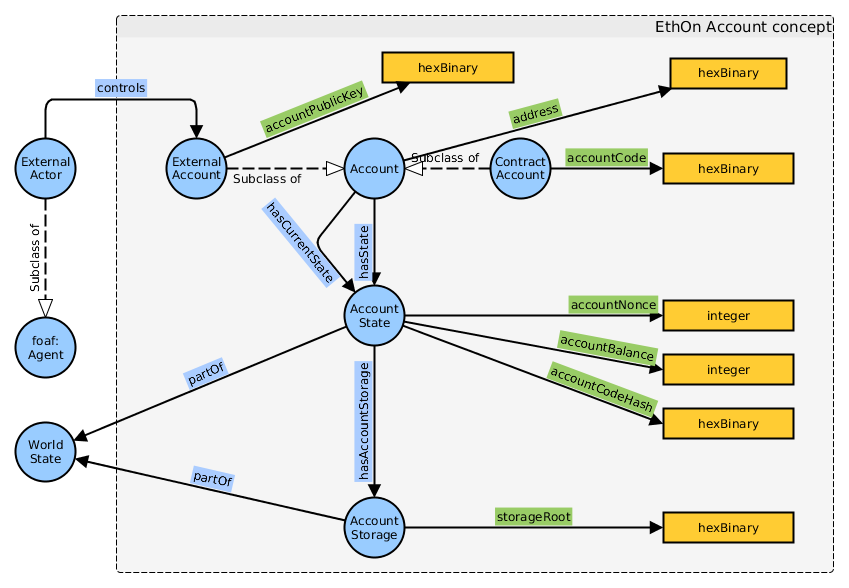
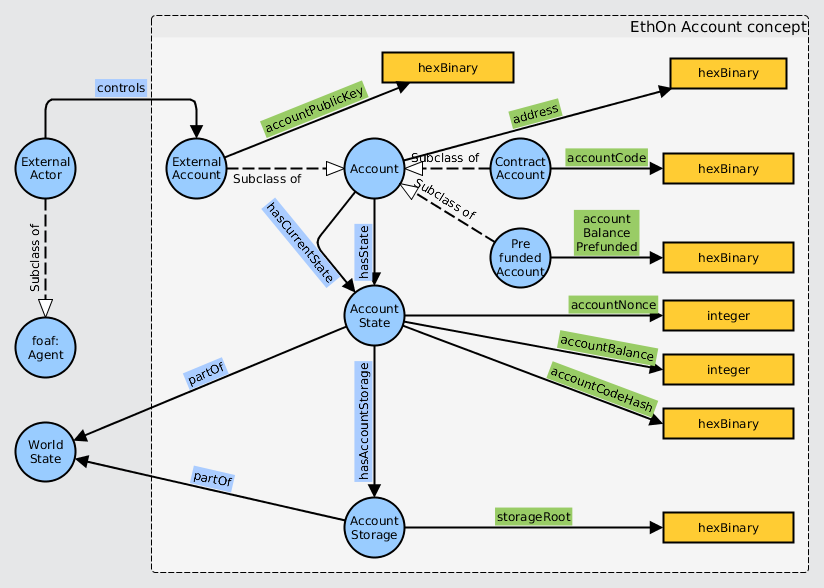
Changed domain of accountBalancePrefunded and added illustrations

diff --git a/EthOn_spec.html b/EthOn_spec.html
@@ -301,7 +301,6 @@
                     <td class="col-md-2">Properties include</td>
                     <td class="col-md-10">
                         
-                            <a class="label label-default" href="#prop-accountbalanceprefunded">accountBalancePrefunded</a> 
                             <a class="label label-default" href="#prop-address">address</a> 
                             <a class="label label-default" href="#prop-hascurrentstate">hasCurrentState</a> 
                             <a class="label label-default" href="#prop-hasstate">hasState</a> 
@@ -1685,6 +1684,13 @@
                 </tr>
             
             
+                <tr>
+                    <td class="col-md-2">Properties include</td>
+                    <td class="col-md-10">
+                        
+                            <a class="label label-default" href="#prop-accountbalanceprefunded">accountBalancePrefunded</a> 
+                    </td>
+                </tr>
             
             
             
@@ -4530,7 +4536,7 @@
                     <td class="col-md-2">Implies being a</td>
                     <td class="col-md-10">
                         
-                            <a class="label label-primary" href="#class-account">Account</a> 
+                            <a class="label label-primary" href="#class-prefundedaccount">PrefundedAccount</a> 
                     </td>
                 </tr>
             
